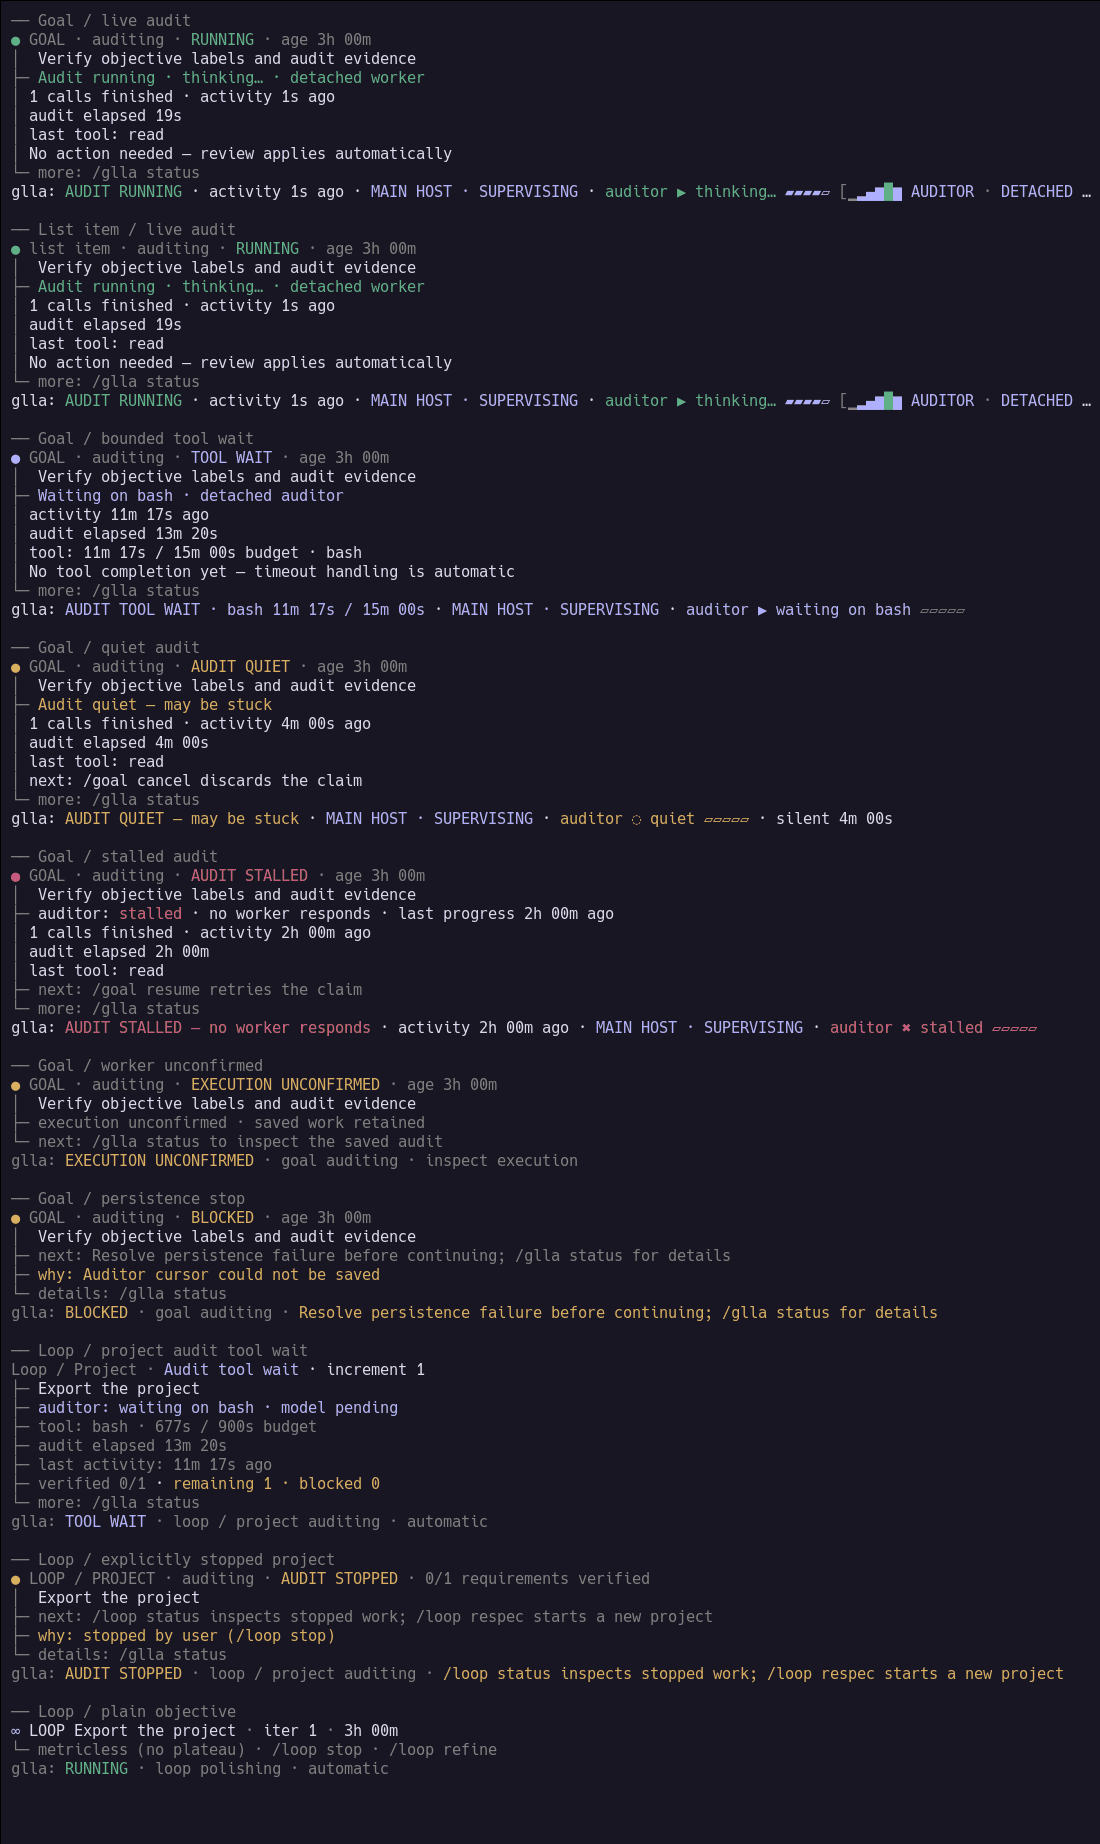
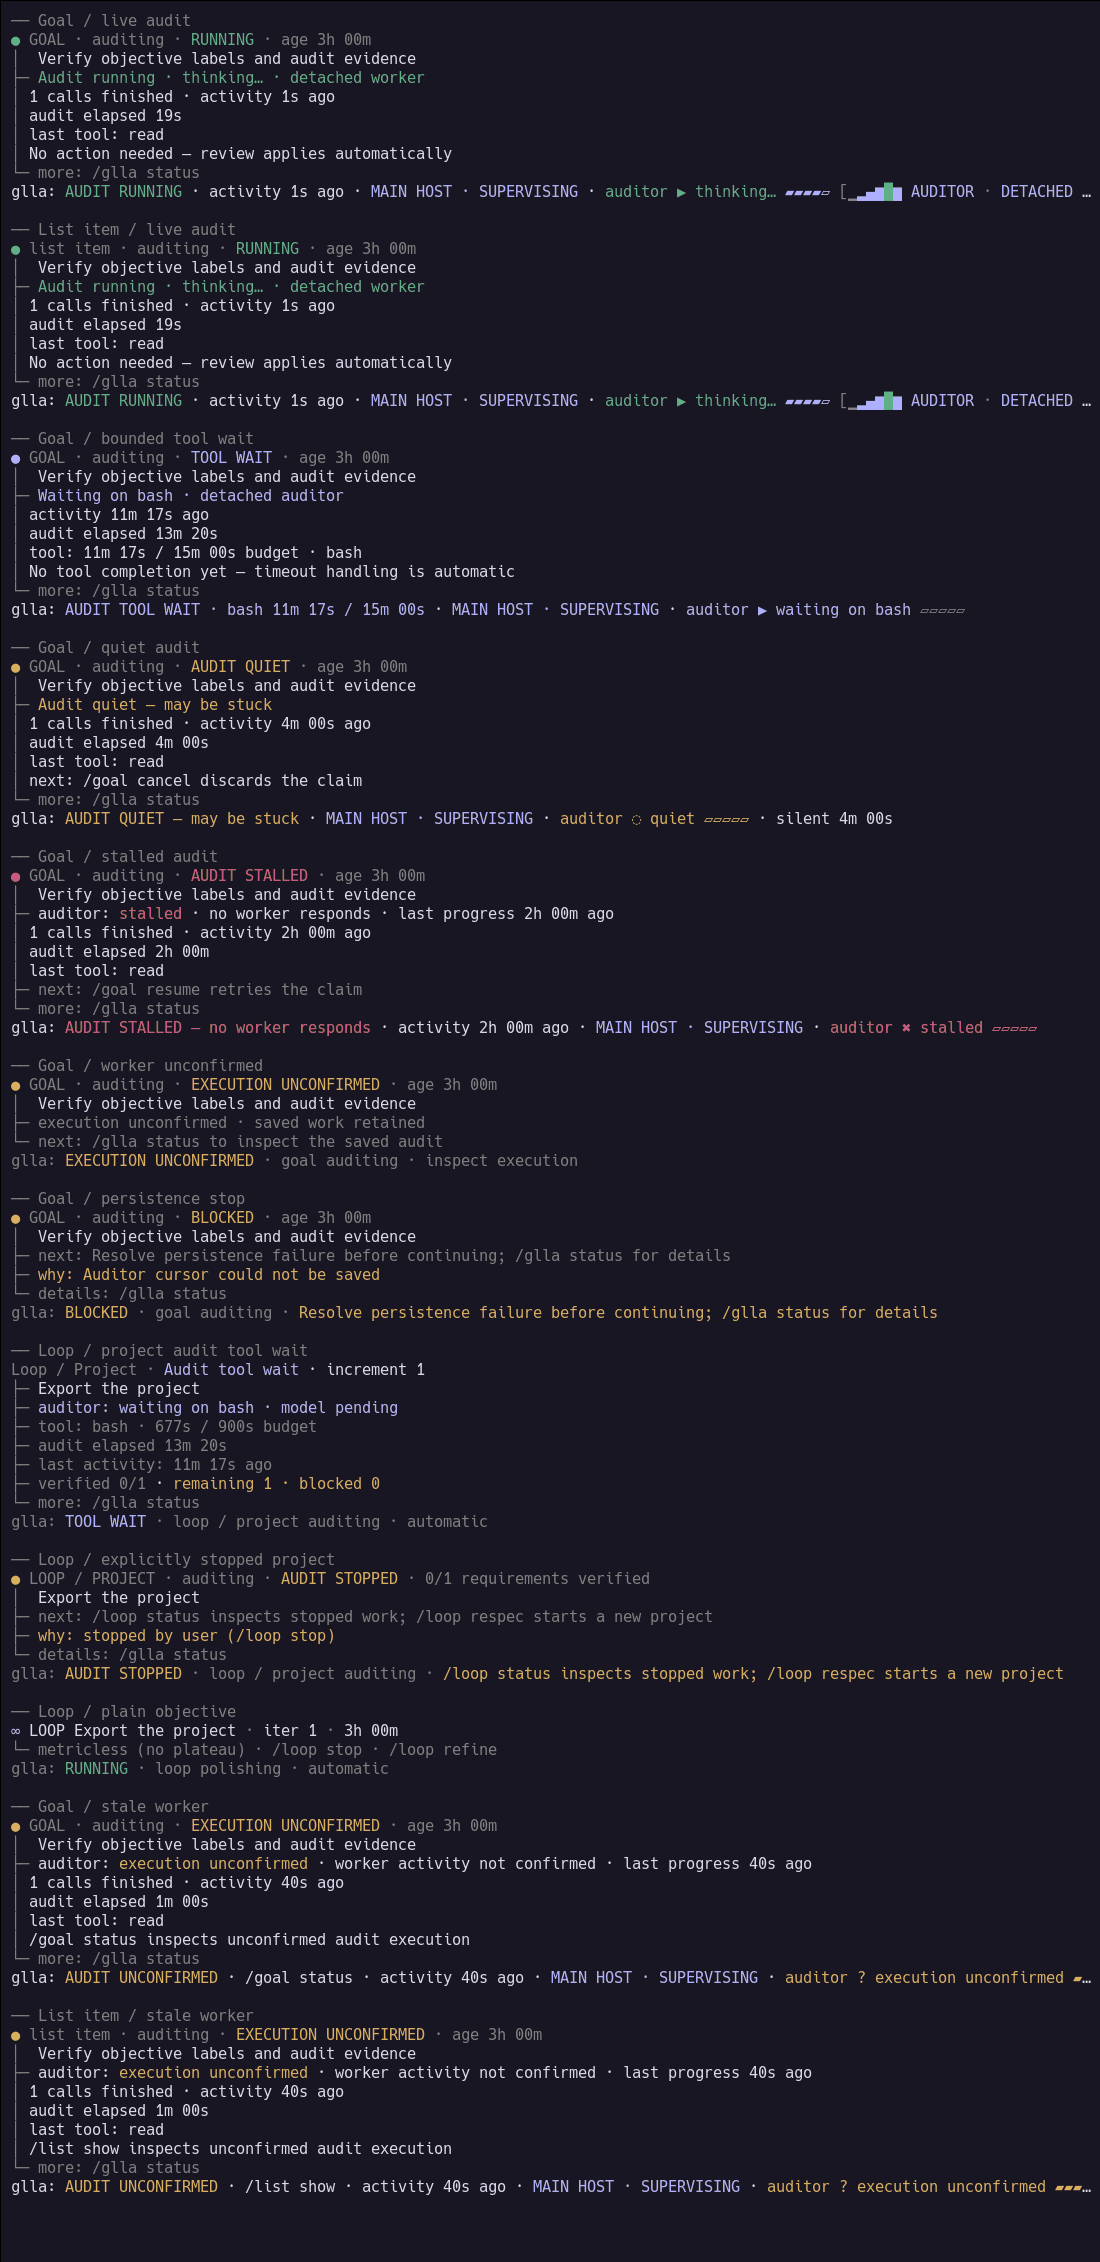
11 file(s) in audit,docs,extensions [audit/audit-status-captures/120.ansi, audit/audit-status-captures/40.ansi, tests/audit-status-color-consistency.test.ts] DELTA:+78/-18 | EXT:ts,ansi,json TEST:12 BIN:2

diff --git a/extensions/goal-loop-display.ts b/extensions/goal-loop-display.ts
@@ -2636,13 +2636,14 @@ function compactAuditingCardRows(g: Goal, audit: AuditDisplayProgress | null | u
       const facts = [finished !== undefined ? `${finished} calls finished` : undefined,
         age !== undefined ? `activity ${fmtElapsed(age)} ago` : "no activity yet"].filter(Boolean);
       const toolWait = auditorToolWait(audit, phase, now);
-      const unconfirmed = phase === 'running' && !toolWait && !auditorHasLiveEvidence(audit, phase, now);
+      const live = auditorHasLiveEvidence(audit, phase, now);
+      const unconfirmed = phase === 'running' && !toolWait && !live;
       const inspectCommand = g.policy === 'list' ? '/list show' : '/goal status';
       const action = block.lead.find(line => line.startsWith("│ next:"));
       // No history or model plaques in the glance card: Pi clips its tail.
       // Keep state, real evidence and the user action ahead of all details.
-      const phaseLine = toolWait ? `├─ ${paint(theme, "accent", `Waiting on ${sanitizeDisplayText(audit!.currentTool!)}${audit?.round === 2 ? " · second audit pass" : ""} · detached auditor`)}` : needsRecovery ? (phase === "quiet" ? `├─ ${paint(theme, "warning", "Audit quiet — may be stuck")}` : block.lead[0]!)
-        : `├─ ${paint(theme, auditorPhaseTone(phase, auditorHasLiveEvidence(audit, phase, now)), phase === "running" ? `${auditorHasLiveEvidence(audit, phase, now) ? 'Audit running' : 'Audit execution unconfirmed'} · ${(extras?.auditorProgressSignals !== false ? auditorProgressPhaseLabel(audit) : undefined) ?? auditorPhaseForDisplay(audit, phase, auditorHasLiveEvidence(audit, phase, now), now)} · detached worker` : phase === "queued" ? "Audit starting · detached worker" : "Audit review pending · detached worker")}`;
+      const phaseLine = unconfirmed ? block.lead[0]! : toolWait ? `├─ ${paint(theme, "accent", `Waiting on ${sanitizeDisplayText(audit!.currentTool!)}${audit?.round === 2 ? " · second audit pass" : ""} · detached auditor`)}` : needsRecovery ? (phase === "quiet" ? `├─ ${paint(theme, "warning", "Audit quiet — may be stuck")}` : block.lead[0]!)
+        : `├─ ${paint(theme, auditorPhaseTone(phase, live), phase === "running" ? `Audit running · ${(extras?.auditorProgressSignals !== false ? auditorProgressPhaseLabel(audit) : undefined) ?? auditorPhaseForDisplay(audit, phase, live, now)} · detached worker` : phase === "queued" ? "Audit starting · detached worker" : "Audit review pending · detached worker")}`;
       const toolLine = block.lead.find(line => /^│ (?:last )?tool:/.test(line));
       const modelRef = auditorCardModelRef(audit, g.pendingCompletion);
       const compactToolLine = modelRef ? toolLine?.split(` · ${modelRef}`)[0] : toolLine;

diff --git a/tests/audit-status-color-consistency.test.ts b/tests/audit-status-color-consistency.test.ts
@@ -50,20 +50,20 @@ test('busy parent cannot turn a missing or stale auditor into a running heading'
   }
 });
 
-test('detailed audits preserve owner, unconfirmed evidence and inspection across both widths', () => {
+test('compact and detailed audits preserve owner, unconfirmed evidence and inspection across both widths', () => {
   const stale: AuditDisplayProgress = { phase: 'thinking', lastActivityAt: now - 40000, startedAt: now - 60000, elapsedMs: 60000 };
-  for (const policy of ['goal', 'list'] as const) for (const width of [40, 120]) {
-    const { card, footer, colors } = render(stale, false, width, policy);
+  for (const compact of [true, false]) for (const policy of ['goal', 'list'] as const) for (const width of [40, 120]) {
+    const { card, footer, colors } = render(stale, compact, width, policy);
     assert.match(card.split('\n')[0]!, policy === 'goal' ? /GOAL/ : /list item/);
     assert.match(card, /EXECUTION UNCONFIRMED/);
     assert.match(card, /auditor: execution unconfirmed/);
-    assert.match(card, policy === 'goal' ? /next: \/goal status/ : /next: \/list show/);
+    assert.match(card, policy === 'goal' ? /\/goal status.*inspects/ : /\/list show.*inspects/);
     assert.match(card, /audit elapsed 1m 00s/);
-    assert.match(card, /last activity: 40s ago/);
+    assert.match(card, compact ? /activity 40s ago/ : /last activity: 40s ago/);
     assert.match(footer, /AUDIT UNCONFIRMED/);
     assert.match(footer, policy === 'goal' ? /\/goal status/ : /\/list show/);
     assert.doesNotMatch(footer, /thinking|reading source|auditor ▶/);
-    assert.doesNotMatch(card + footer, /review applies automatically|No action needed|AUDIT RUNNING|detached worker/);
+    assert.doesNotMatch(card + footer, /thinking|reading source|review applies automatically|No action needed|AUDIT RUNNING|detached worker/);
     assert.ok(colors.some(entry => entry.text === 'execution unconfirmed' && entry.color === 'warning'));
   }
 });

diff --git a/scripts/audit-status-capture.ts b/scripts/audit-status-capture.ts
@@ -31,6 +31,7 @@ const project: State = { goal: null, list: [], loop: { active: true, builder, ta
   iteration: 1, maxIterations: 0, plateauWindow: 5, stallCount: 0, bestValue: null, lastValue: null, history: [] } };
 const loop = structuredClone(project); delete loop.loop!.builder;
 const stopped = structuredClone(project); stopped.loop!.active = false; stopped.loop!.stopReason = 'stopped by user (/loop stop)';
+const stale: AuditDisplayProgress = { ...fresh, startedAt: now - 60000, elapsedMs: 60000, lastActivityAt: now - 40000 };
 const fixtures: Array<{ name: string; state: State; audit?: AuditDisplayProgress; context?: UiStatusContext }> = [
   { name: 'Goal / live audit', state: goal(), audit: fresh },
   { name: 'List item / live audit', state: list, audit: fresh },
@@ -42,8 +43,9 @@ const fixtures: Array<{ name: string; state: State; audit?: AuditDisplayProgress
   { name: 'Loop / project audit tool wait', state: project },
   { name: 'Loop / explicitly stopped project', state: stopped },
   { name: 'Loop / plain objective', state: loop },
+  { name: 'Goal / stale worker', state: goal(), audit: stale },
+  { name: 'List item / stale worker', state: list, audit: stale },
 ];
-const stale: AuditDisplayProgress = { ...fresh, startedAt: now - 60000, elapsedMs: 60000, lastActivityAt: now - 40000 };
 const detailedFixtures = [fixtures[0], fixtures[1],
   { name: 'Goal / stale worker', state: goal(), audit: stale },
   { name: 'List item / stale worker', state: list, audit: stale },

diff --git a/audit/OBJECTIVE-AUDIT-STATUS-2026-10-11.md b/audit/OBJECTIVE-AUDIT-STATUS-2026-10-11.md
@@ -48,6 +48,15 @@ The isolated audit initially approved the compact rendering but its challenge co
 - Capture commands above now produce compact and detailed `{40,120}[-detailed].{ansi,json,png}`. Native inspection at both widths confirms explicit owners, unknown inspection actions, visible clocks/budgets and phase-leading footers. These remain production fixtures, not live Pi/provider-session evidence.
 - Fresh-context read-only reviewer `df1d16db-c447-453b-9291-493dac29fe1a` inspected shared heading/evidence code, assertions and all four PNGs; verdict OK, BLOCKERS none. It executed no commands. A final small footer refinement also suppresses stale thinking text and prioritizes inspection commands, covered by the final matrix rerun.
 
+## Compact stale-worker challenge repair
+
+The latest audit correctly identified one remaining contradiction: compact stale-worker phase expansion still appended `thinking… · detached worker` despite an unconfirmed heading/footer. The earlier detailed repair is retained; the compact unknown branch now directly reuses the evidence-gated detailed phase row instead of independently expanding stale metadata.
+
+- The owner/width matrix now covers both compact booleans, Goal and List policies, and 40/120 widths. It rejects unsupported thinking/reading-source, detached-worker and automatic-review terms across the entire card/footer, while requiring unconfirmed status, inspection commands and timing facts.
+- Compact captures now include stale-worker Goal and List cases (40-second-old worker activity plus a busy parent), previously absent. Native inspection of both compact PNGs confirms unconfirmed amber phase rows with no thinking/detached-worker suffix, retained clocks and owner-specific inspection commands.
+- Focused reviewer follow-up `cb141e31-b7ea-4884-9f4d-9c95600b64b7` inspected both compact call sites, footer suppression, the complete layout/owner/width matrix, saved logs and both compact PNGs. Verdict OK, BLOCKERS none; no reviewer commands executed.
+- Final bounded tests: 180 pass, zero fail across eleven files (`/tmp/glla-audit-compact-final-tests.log`); typecheck passed (`/tmp/glla-audit-compact-final-types.log`); four fixture captures and inventory check passed. Fixture limitations remain unchanged: no live provider-session claim.
+
 ## Scope
 
 Only GLLA presentation and its public observation adapters are implementation targets. This item does not alter Pi core, repair the operating system, or implement the separately queued quota retry and manual-model-resume goals.

diff --git a/docs/RUNTIME-INVENTORY.md b/docs/RUNTIME-INVENTORY.md
@@ -3,7 +3,7 @@
 Generated by `node scripts/generate-inventory.mjs`. Run with `--check` to detect drift. Counts describe files and literal registrations, not executed coverage.
 
 - Extension/script files: 117
-- Extension/script lines: 69208
+- Extension/script lines: 69211
 - Top-level test files: 399
 - Ambient bridge names: 179 (audit baseline: 179)
 - Commands: `/glla`, `/goal`, `/list`, `/loop`, `/review`
@@ -17,7 +17,7 @@ Generated by `node scripts/generate-inventory.mjs`. Run with `--check` to detect
 | [extensions/loops/goal-tools.ts](../extensions/loops/goal-tools.ts) | 4237 |
 | [extensions/loops/goal-activation.ts](../extensions/loops/goal-activation.ts) | 3885 |
 | [extensions/goal-commands.ts](../extensions/goal-commands.ts) | 3650 |
-| [extensions/goal-loop-display.ts](../extensions/goal-loop-display.ts) | 3314 |
+| [extensions/goal-loop-display.ts](../extensions/goal-loop-display.ts) | 3315 |
 | [extensions/goal-loop-auditor-process.ts](../extensions/goal-loop-auditor-process.ts) | 2685 |
 | [extensions/loops/goal-auditor-hooks.ts](../extensions/loops/goal-auditor-hooks.ts) | 2654 |
 | [extensions/goal-recovery.ts](../extensions/goal-recovery.ts) | 2194 |
